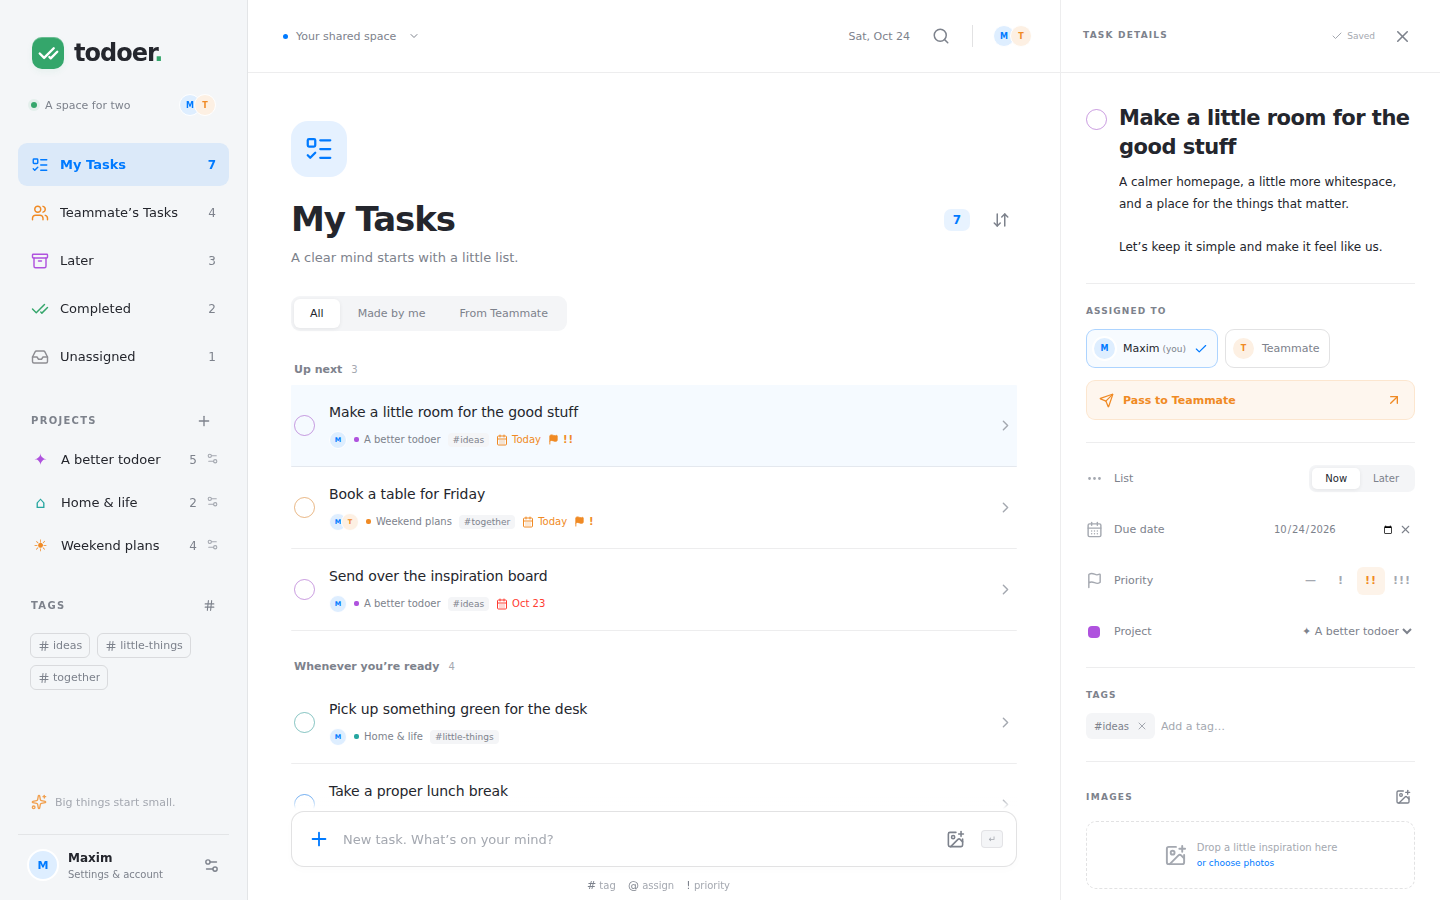
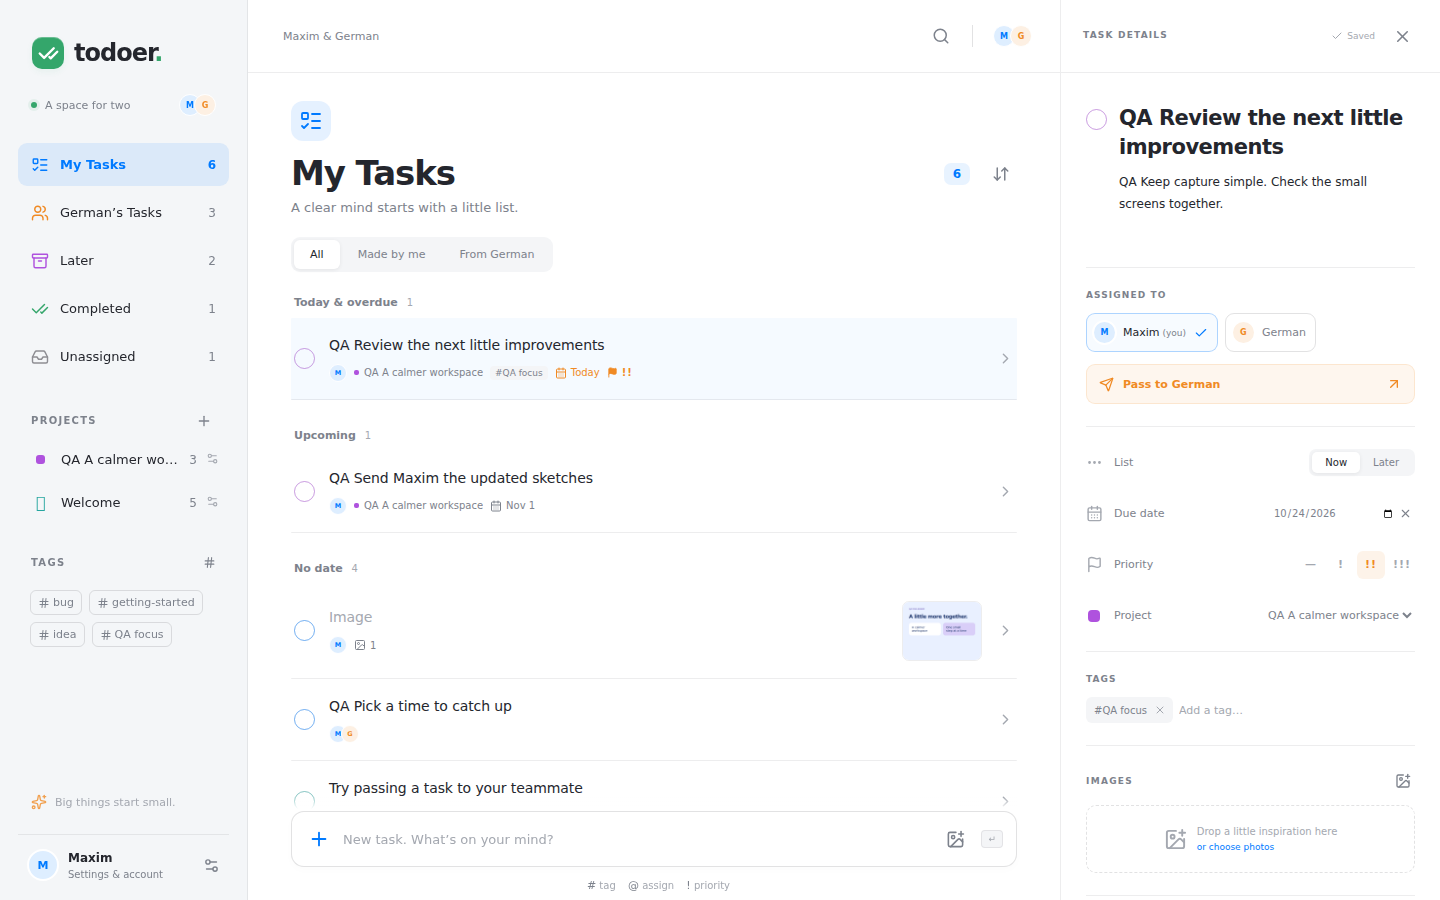
Refresh real API screenshots across desktop, phone, and iPad

diff --git a/apps/web/docs/screenshots/README.md b/apps/web/docs/screenshots/README.md
@@ -1,0 +1,17 @@
+# Round 2 visual QA
+
+Captured against the real Express/Postgres API on port 4100, with Next development on port 3101. All `QA ` fixtures were removed afterward; the original Welcome content was preserved. Emoji boxes are expected on this host.
+
+- Desktop, 1440×900: [light](desktop-light.png), [dark](desktop-dark.png), [detail light](desktop-detail-light.png), [detail dark](desktop-detail-dark.png), [login](desktop-login-light.png).
+- iPhone SE, 375×667: [home light](mobile-home-light.png), [home dark](mobile-home-dark.png), [list light](mobile-list-light.png), [list dark](mobile-list-dark.png), [image detail light](mobile-detail-light.png), [image detail dark](mobile-detail-dark.png).
+- iPhone 14 Pro Max, 430×932: [home light](iphone-14-pro-max-home-light.png), [home dark](iphone-14-pro-max-home-dark.png), [list light](iphone-14-pro-max-list-light.png), [list dark](iphone-14-pro-max-list-dark.png), [image detail light](iphone-14-pro-max-detail-light.png), [image detail dark](iphone-14-pro-max-detail-dark.png).
+- iPad, 820×1180: [list light](ipad-list-light.png), [list dark](ipad-list-dark.png), [detail light](ipad-detail-light.png), [detail dark](ipad-detail-dark.png).
+- German's “From Maxim” segment, 430×932: [light](german-mobile-light.png), [dark](german-mobile-dark.png).
+
+Recreate the captures with real API and web servers running:
+
+```sh
+WEB_URL=http://localhost:3101 REAL_SCREENSHOTS=1 REAL_VISUAL_ONLY=1 node scripts/real-smoke.mjs
+```
+
+Run from `apps/web`. Omit `REAL_VISUAL_ONLY=1` to also exercise settings, both users, handoff, polling/deletion, and swipe handlers. The smoke reads credentials externally at runtime and cleans up its own fixtures in `finally`. Native Chromium touch dispatch was separately checked for vertical scrolling, spring reveal, Delete/cancel, and completion.
